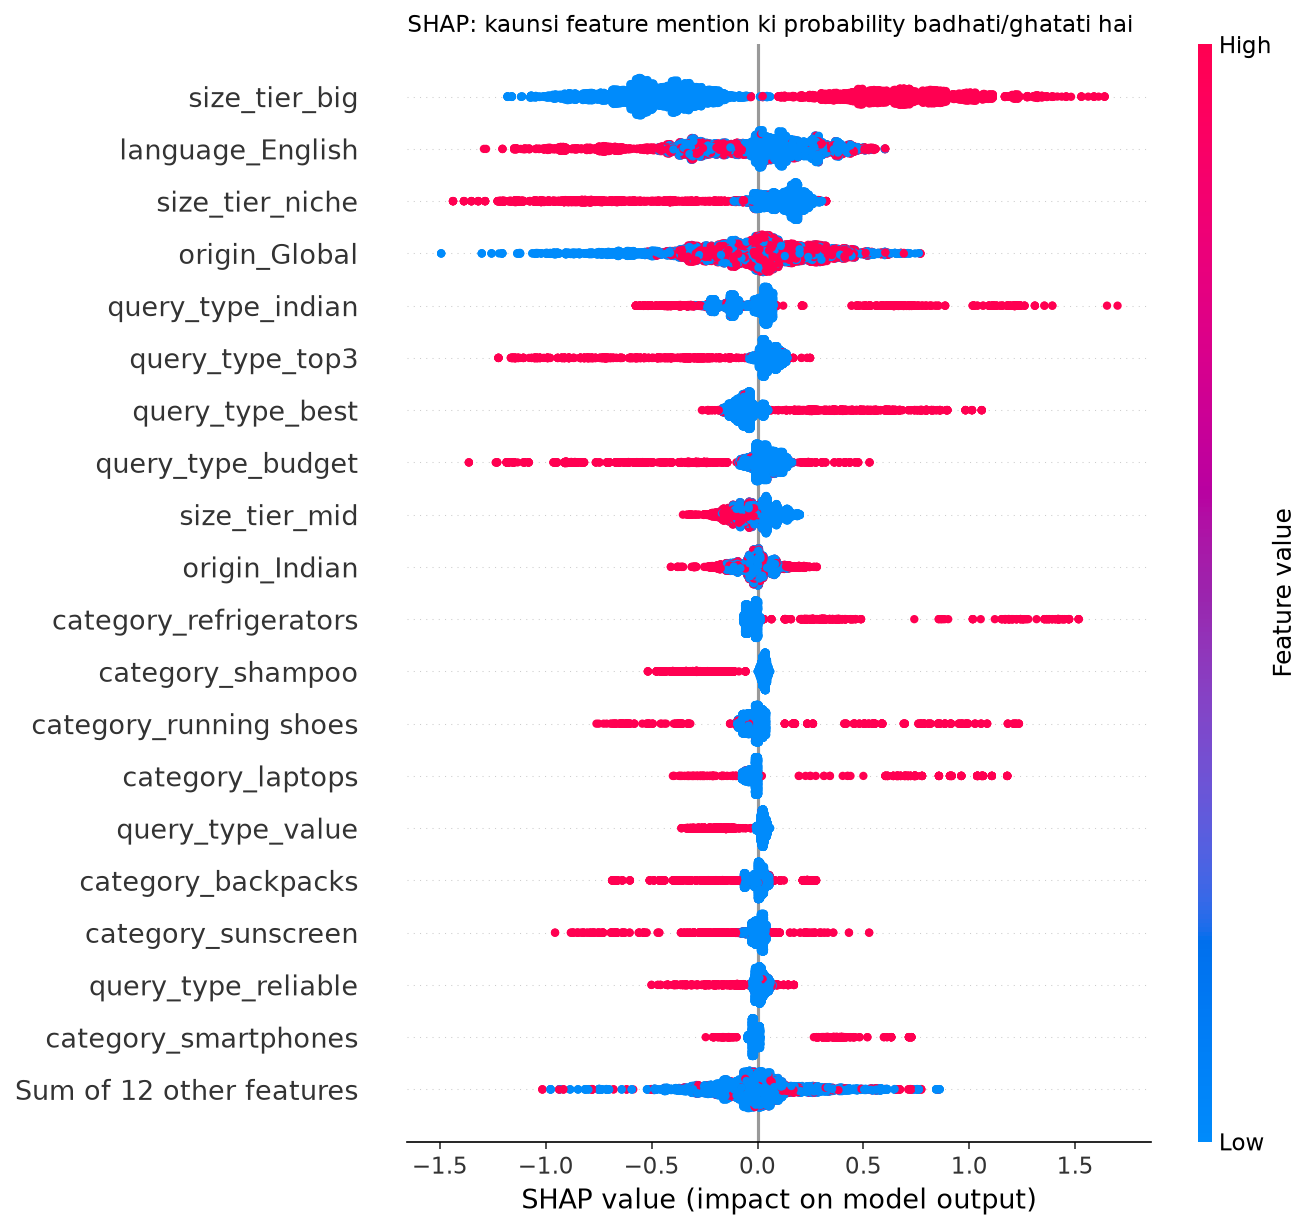
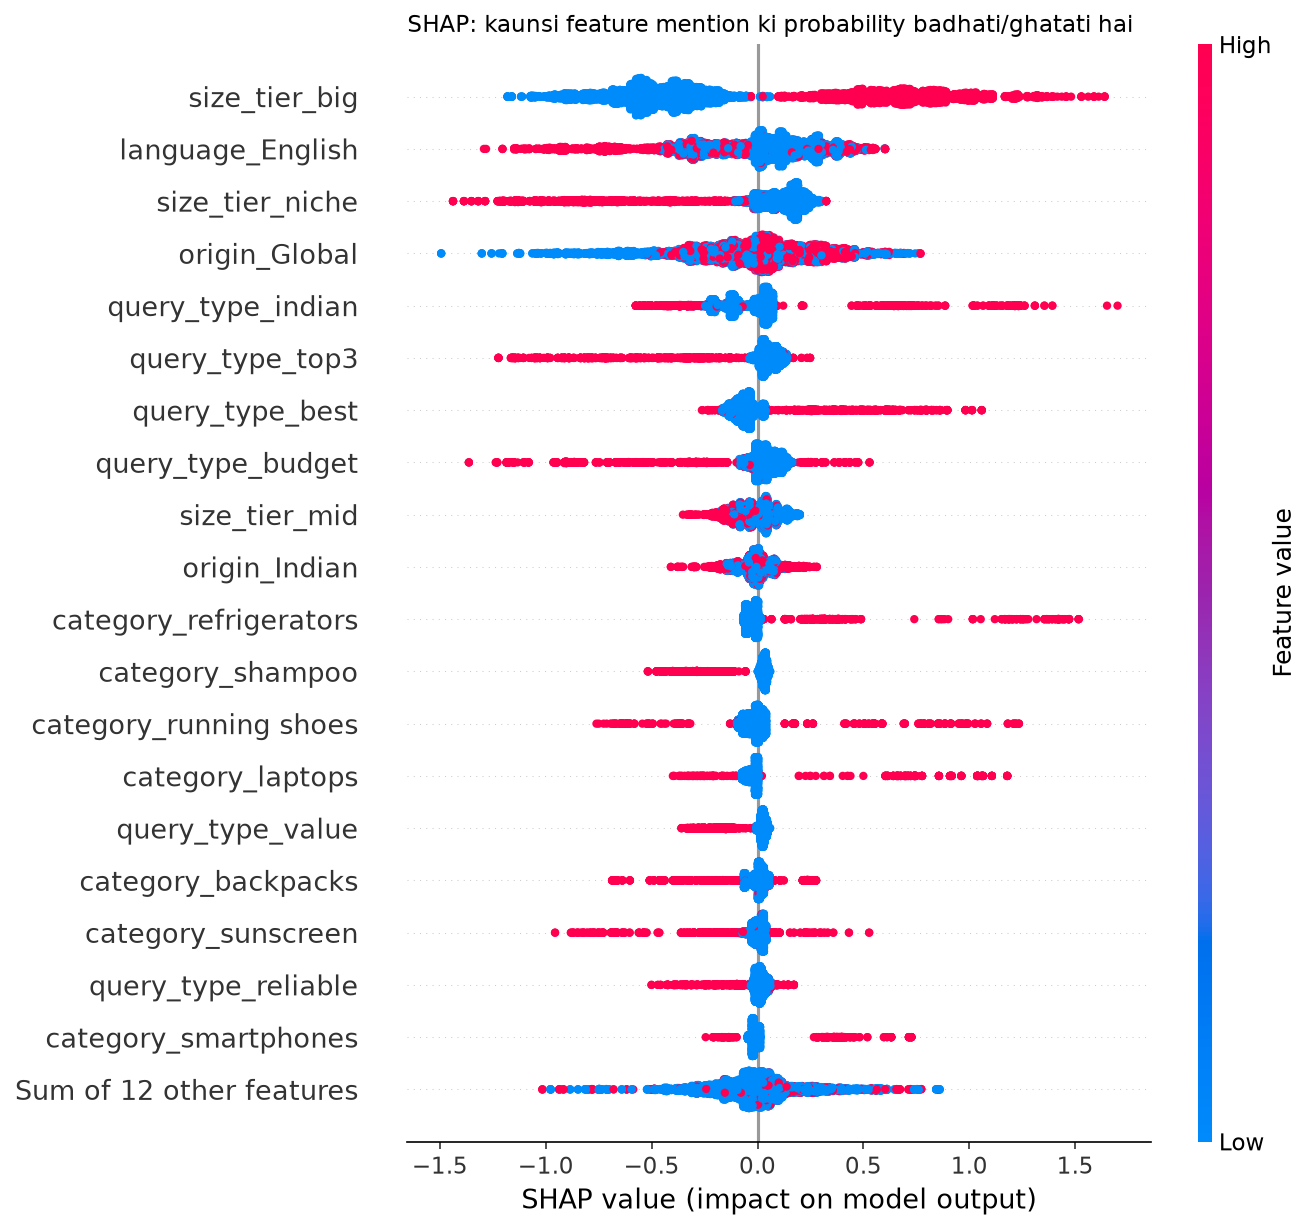
Add "Check my brand" tab to the app
- brand_check.py: runs the study's 24 questions for one category through
  claude-haiku-5-5 (4 threads), finds the brand by regex with aliases
  (plus known brands.csv aliases), its position among all brands in the
  answer, Haiku sentiment, and the other brands mentioned
- app.py: tabs "Profile score" and "Check my brand"; per-language X/8,
  avg position, sentiment, top 10 competitors, CSV download, all answers;
  max 3 checks per session, cost shown after each check; key from .env
  or st.secrets and never displayed
- Pin pandas 2.3.3 (Smart App Control blocked a pandas 3.1.0 DLL);
  all outputs identical
- Ignore .streamlit/secrets.toml; README section on the app

Tested on boAt (wireless earbuds): 24 answers read by hand, all 19
mentions and 5 non-mentions correct.

diff --git a/app.py b/app.py
@@ -1,11 +1,15 @@
 import os
 
 import altair as alt
+import anthropic
 import joblib
 import numpy as np
 import pandas as pd
 import shap
 import streamlit as st
+from dotenv import load_dotenv
+
+import brand_check
 
 MODEL_FILE = "model_original.pkl"
 BRANDS_FILE = "brands.csv"
@@ -23,6 +27,9 @@ DISCLAIMER = ("Pilot study. One model (Claude Haiku), 360 queries, no live web s
               "Predictions come from the brand's profile (category, origin, size) only, not from its name. "
               "Scores are measured within the tracked brand list. English answers mention more brands that are "
               "outside the list, so don't compare scores directly across languages.")
+MAX_CHECKS = 3  # har browser session mein "Check my brand" ki limit
+CHECK_DISCLAIMER = ("Results come from one model (Claude Haiku), without live web search. "
+                    "They are based on 8 queries per language, so treat them as indicative.")
 
 
 @st.cache_resource
@@ -90,16 +97,21 @@ def shap_chart(contributions):
     return (bars + zero).properties(height=220)
 
 
-def main():
-    st.set_page_config(page_title="BrandLens-India", page_icon="🔎", layout="wide")
-    st.title("BrandLens-India")
-    st.caption("Relative visibility of a brand profile in AI answers (English / Hindi / Hinglish)")
-    st.markdown("This app scores a **profile** (category, origin, size tier), not a brand name. "
-                "Two brands with the same profile always get the same score.")
+def get_api_key():
+    # .env ya .streamlit/secrets.toml se; key kabhi screen par ya log mein nahi jaani chahiye
+    load_dotenv()
+    key = os.getenv("ANTHROPIC_API_KEY")
+    if not key:
+        try:
+            key = st.secrets["ANTHROPIC_API_KEY"]
+        except Exception:
+            key = None
+    return key or None
 
-    model = load_model()
-    brands = load_brands()
-    levels = model_levels(model)
+
+def profile_tab(model, brands, levels):
+    st.markdown("This tab scores a **profile** (category, origin, size tier), not a brand name. "
+                "Two brands with the same profile always get the same score.")
 
     def clear_brand():
         st.session_state["brand"] = NO_BRAND
@@ -156,6 +168,108 @@ def main():
         st.warning(f"{REFERENCE_CHART} not found. Run `python train.py --subset original` first.")
 
     st.info(DISCLAIMER)
+
+
+def render_check(result):
+    results, info = result["results"], result["info"]
+    st.markdown(f"#### {info['brand']} · {info['category']}")
+    st.caption("Matched as: " + ", ".join(info["names"]))
+    if info["failed"]:
+        reasons = ", ".join(f"{name} ×{n}" for name, n in info["errors"].items())
+        st.warning(f"{info['failed']} of 24 questions failed after retries and are left out ({reasons}).")
+
+    summary = brand_check.language_summary(results)
+    for col, r in zip(st.columns(3), summary.to_dict("records")):
+        col.metric(f"{r['Language']}: answers mentioning it", r["Mentioned in"])
+    st.dataframe(summary, hide_index=True, width="stretch")
+    st.caption("Avg position = order of first appearance among all brands in the answer (1 = named first). "
+               "Sentiment is Claude Haiku's reading of how the answer talks about the brand.")
+
+    st.markdown("**Top 10 other brands in these answers**")
+    st.dataframe(brand_check.top_competitors(results), hide_index=True, width="stretch")
+
+    st.download_button("Download the answers (CSV)", brand_check.to_csv(results),
+                       file_name=f"brand_check_{info['brand']}_{info['category']}.csv".replace(" ", "_"),
+                       mime="text/csv")
+    with st.expander(f"Read all {len(results)} answers"):
+        for r in results.itertuples():
+            status = (f"mentioned, position {int(r.position)}, {r.sentiment or 'sentiment not rated'}"
+                      if r.mentioned else "not mentioned")
+            with st.container(border=True):
+                st.markdown(f"**{r.language} · {r.query_type}** ({status})")
+                st.caption(r.query_text)
+                st.markdown(r.answer)
+
+
+def check_tab(levels):
+    st.subheader("Check my brand")
+    st.caption("Asks Claude Haiku the study's 24 questions for one category right now "
+               "(8 query types × English, Hindi, Hinglish), then looks for your brand in the answers.")
+    api_key = get_api_key()
+    st.session_state.setdefault("checks_used", 0)
+    st.session_state.setdefault("session_cost", 0.0)
+
+    with st.form("check_form"):
+        brand = st.text_input("Brand name", placeholder="e.g. boAt")
+        aliases = st.text_input("Other names (optional, comma-separated)", placeholder="e.g. Airdopes, बोट")
+        category = st.selectbox("Category", levels["category"], key="check_category")
+        run = st.form_submit_button("Run check", type="primary",
+                                    disabled=not api_key or st.session_state["checks_used"] >= MAX_CHECKS)
+    if not api_key:
+        st.warning("No API key found. Add ANTHROPIC_API_KEY to .env or .streamlit/secrets.toml.")
+
+    if run:
+        if st.session_state["checks_used"] >= MAX_CHECKS:  # button band hone ke baad bhi double-check
+            st.error(f"This session has used all {MAX_CHECKS} checks.")
+        elif not brand.strip():
+            st.error("Enter a brand name.")
+        else:
+            st.session_state["checks_used"] += 1
+            progress = st.progress(0.0, text="Asking Claude Haiku…")
+            try:
+                results, info = brand_check.run_check(
+                    brand.strip(), aliases.split(","), category, api_key,
+                    on_progress=lambda done, total: progress.progress(done / total, text=f"{done}/{total} questions done"))
+            except anthropic.AuthenticationError:
+                st.error("The API key was rejected. Check ANTHROPIC_API_KEY.")
+            except Exception as e:  # sirf error ka type dikhao, message mein kuch sensitive na jaaye
+                st.error(f"The check failed ({type(e).__name__}). Try again in a minute.")
+            else:
+                st.session_state["session_cost"] += info["cost"]
+                if results.empty:
+                    reasons = ", ".join(f"{name} ×{n}" for name, n in info["errors"].items())
+                    st.error(f"All 24 questions failed ({reasons}). Try again in a minute.")
+                else:
+                    st.session_state["check_result"] = {"results": results, "info": info}
+            progress.empty()
+
+    left = MAX_CHECKS - st.session_state["checks_used"]
+    st.caption(f"{left} of {MAX_CHECKS} checks left in this session. Each check makes 48 API calls "
+               f"(24 answers + 24 brand extractions), about \\${brand_check.EXPECTED_COST:.2f}. If the brand is in "
+               "brands.csv for this category, its known names are matched too.")
+    if "check_result" in st.session_state:
+        info = st.session_state["check_result"]["info"]
+        # "\$" zaroori hai: markdown do $ ke beech ke text ko LaTeX maan leta hai
+        st.success(f"Cost of the last check: about \\${info['cost']:.3f} ({info['input_tokens']:,} input + "
+                   f"{info['output_tokens']:,} output tokens at claude-haiku-5-5 prices). "
+                   f"This session so far: \\${st.session_state['session_cost']:.3f}.")
+        render_check(st.session_state["check_result"])
+
+    st.info(CHECK_DISCLAIMER)
+
+
+def main():
+    st.set_page_config(page_title="BrandLens-India", page_icon="🔎", layout="wide")
+    st.title("BrandLens-India")
+    st.caption("Relative visibility of brands in AI answers (English / Hindi / Hinglish)")
+
+    model = load_model()
+    levels = model_levels(model)
+    profile, check = st.tabs(["Profile score", "Check my brand"])
+    with profile:
+        profile_tab(model, load_brands(), levels)
+    with check:
+        check_tab(levels)
 
 
 if __name__ == "__main__":

diff --git a/brand_check.py b/brand_check.py
@@ -1,0 +1,168 @@
+"""Check my brand: ek brand ke liye study ke 24 sawaal (8 query types x 3 languages) abhi Haiku se poochho aur analyse karo."""
+import re
+from collections import Counter
+from concurrent.futures import ThreadPoolExecutor, as_completed
+
+import anthropic
+import pandas as pd
+
+from collect import ask
+from extract import clean_name, compile_alias, first_match, normalize
+from sentiment import extract as extract_brands
+
+QUERIES_FILE = "queries.csv"
+BRANDS_FILE = "brands.csv"
+WORKERS = 4
+MAX_RETRIES = 3
+LANGUAGES = ["English", "Hindi", "Hinglish"]
+# claude-haiku-5-5, USD per million tokens (100K tokens tak ke prompts)
+PRICE_INPUT, PRICE_OUTPUT = 0.10, 0.50
+# study ke average se: har check = 24 answers + 24 extractions, ~38K input aur ~36K output tokens
+EXPECTED_COST = (38_000 * PRICE_INPUT + 36_000 * PRICE_OUTPUT) / 1e6
+
+
+def category_queries(category):
+    queries = pd.read_csv(QUERIES_FILE)
+    return queries[queries["category"] == category].sort_values("query_id")
+
+
+def known_aliases(brand, category):
+    # brand pehle se brands.csv mein hai to uske aliases (Devanagari wale bhi) saath mein match karo
+    brands = pd.read_csv(BRANDS_FILE)
+    hit = brands[(brands["category"] == category) & (brands["brand"].str.casefold() == brand.casefold())]
+    return hit["aliases"].iloc[0].split("|") if len(hit) else []
+
+
+def brand_matcher(brand, aliases):
+    names = list(dict.fromkeys(n.strip() for n in [brand, *aliases] if n.strip()))
+    return names, [compile_alias(n, brand) for n in names]
+
+
+def is_same_brand(name, names, patterns):
+    name = normalize(clean_name(name))
+    return name.casefold() in {n.casefold() for n in names} or any(p.search(name) for p in patterns)
+
+
+def first_index(name, text):
+    # study wale matching rules hi: case-sensitive ambiguous naam, "Noise cancellation" jaise exclusions
+    name = clean_name(name)
+    m = compile_alias(name, name).search(text)
+    return m.start() if m else None
+
+
+def brand_order(text, brand, start, others):
+    # answer mein pehli baar aane ka order, saare brands ke beech (list ke andar-bahar dono)
+    placed = [(s, n) for n in others if (s := first_index(n, text)) is not None]
+    if start is not None:
+        placed.append((start, brand))
+    return [n for _, n in sorted(placed)]
+
+
+def check_one(client, row, brand, names, patterns, tracked):
+    answer = ask(client, row.query_id, row.query_text)
+    found = extract_brands(client, row.query_id, row.query_text, row.category, tracked, answer["answer"])
+    text = normalize(answer["answer"])
+
+    start = first_match(patterns, text)
+    sentiment = next((b["sentiment"] for b in found["brands"] if is_same_brand(b["brand"], names, patterns)), None)
+    others = list(dict.fromkeys(clean_name(b["brand"]) for b in found["brands"]
+                                if not is_same_brand(b["brand"], names, patterns)))
+    order = brand_order(text, brand, start, others)
+    return {
+        "query_id": row.query_id,
+        "language": row.language,
+        "query_type": row.query_type,
+        "query_text": row.query_text,
+        "mentioned": start is not None,
+        "position": order.index(brand) + 1 if start is not None else None,
+        "sentiment": sentiment,
+        "brands_in_order": order,
+        "other_brands": others,
+        "answer": answer["answer"],
+        "input_tokens": answer["input_tokens"] + found["input_tokens"],
+        "output_tokens": answer["output_tokens"] + found["output_tokens"],
+    }
+
+
+def run_check(brand, aliases, category, api_key, on_progress=None):
+    if not api_key:
+        raise ValueError("ANTHROPIC_API_KEY nahi mila")
+    queries = category_queries(category)
+    names, patterns = brand_matcher(brand, [*aliases, *known_aliases(brand, category)])
+    extra = [n for n in names if n != brand]
+    tracked = f"{brand} ({', '.join(extra)})" if extra else brand
+    client = anthropic.Anthropic(api_key=api_key, max_retries=MAX_RETRIES)
+
+    rows, errors = [], Counter()
+    with ThreadPoolExecutor(max_workers=WORKERS) as pool:
+        futures = [pool.submit(check_one, client, row, brand, names, patterns, tracked)
+                   for row in queries.itertuples()]
+        for done, future in enumerate(as_completed(futures), start=1):
+            try:
+                rows.append(future.result())
+            except anthropic.AuthenticationError:
+                pool.shutdown(cancel_futures=True)
+                raise
+            except Exception as e:  # retries ke baad bhi fail - sirf error ki type gino, aage badho
+                errors[type(e).__name__] += 1
+            if on_progress:
+                on_progress(done, len(futures))
+
+    results = pd.DataFrame(rows)
+    if not results.empty:  # language, phir study wala query order
+        results = results.sort_values(["language", "query_id"],
+                                      key=lambda s: s.map(LANGUAGES.index) if s.name == "language" else s)
+    tokens_in = int(results["input_tokens"].sum()) if not results.empty else 0
+    tokens_out = int(results["output_tokens"].sum()) if not results.empty else 0
+    return results, {
+        "brand": brand, "category": category, "names": names,
+        "failed": sum(errors.values()), "errors": dict(errors),
+        "input_tokens": tokens_in, "output_tokens": tokens_out,
+        "cost": (tokens_in * PRICE_INPUT + tokens_out * PRICE_OUTPUT) / 1e6,
+    }
+
+
+def language_summary(results):
+    rows = []
+    for lang in LANGUAGES:
+        d = results[results["language"] == lang]
+        m = d[d["mentioned"]]
+        sentiments = Counter(m["sentiment"].fillna("not rated"))
+        rows.append({
+            "Language": lang,
+            "Mentioned in": f"{len(m)}/{len(d)}",
+            "Avg position": round(m["position"].mean(), 1) if len(m) else None,
+            "Positive": sentiments["positive"],
+            "Neutral": sentiments["neutral"],
+            "Negative": sentiments["negative"],
+        })
+    return pd.DataFrame(rows)
+
+
+def top_competitors(results, n=10):
+    # "realme" aur "Realme" ek hi gine jaate hain; har answer mein ek brand ek hi baar
+    seen, names, positions = {}, {}, {}
+    for r in results.itertuples():
+        for name in r.other_brands:
+            key = name.casefold()
+            names.setdefault(key, Counter())[name] += 1
+            seen.setdefault(key, Counter())[r.language] += 1
+            if name in r.brands_in_order:
+                positions.setdefault(key, []).append(r.brands_in_order.index(name) + 1)
+    rows = [{
+        "Brand": names[k].most_common(1)[0][0],
+        f"Answers (of {len(results)})": sum(c.values()),
+        **{lang: c[lang] for lang in LANGUAGES},
+        "Avg position": round(sum(positions[k]) / len(positions[k]), 1) if positions.get(k) else None,
+    } for k, c in seen.items()]
+    table = pd.DataFrame(rows)
+    if table.empty:
+        return table
+    return table.sort_values([f"Answers (of {len(results)})", "Brand"], ascending=[False, True]).head(n)
+
+
+def to_csv(results):
+    out = results.drop(columns=["input_tokens", "output_tokens"]).copy()
+    for col in ["brands_in_order", "other_brands"]:
+        out[col] = out[col].map("|".join)
+    return out.to_csv(index=False).encode("utf-8-sig")  # BOM taaki Excel Hindi sahi dikhaye

diff --git a/README.md b/README.md
@@ -40,7 +40,7 @@ The tracked list decides what counts as a mention, and it isn't neutral:
 | 4. Models: majority / logistic / XGBoost, SHAP, charts | `train.py [--subset all\|original]` | `model.pkl` + `figures/`, or `model_original.pkl` + `figures/original/` |
 | 5. List coverage, Global − Indian gap (bootstrap CI) | `analysis.py` | console tables |
 | 6. Indian-origin share of all brands (bootstrap CI) | `origin_share.py` | `origin_share.csv`, `unlisted_origins.csv` |
-| 7. Demo app | `streamlit run app.py` | http://localhost:8501 |
+| 7. Demo app: "Profile score" and "Check my brand" tabs | `streamlit run app.py` | http://localhost:8501 |
 
 Setup:
 
@@ -49,7 +49,14 @@ python -m venv venv
 venv\Scripts\python -m pip install -r requirements.txt
 ```
 
-Put your key in `.env` as `ANTHROPIC_API_KEY=...`. The file is git-ignored.
+Put your key in `.env` as `ANTHROPIC_API_KEY=...`, or in `.streamlit/secrets.toml` for the app. Both are git-ignored.
+
+pandas is pinned to 2.3.3 because Windows Smart App Control blocked a pandas 3.1.0 DLL on the development machine. All outputs are identical under both versions.
+
+## The app
+
+- **Profile score** runs `model_original.pkl` on a profile (category, origin, size tier) and shows a relative visibility score per language, a query-type chart, and a SHAP breakdown. It never sees brand names.
+- **Check my brand** (`brand_check.py`) asks `claude-haiku-5-5` the study's 24 questions for one category right now: 8 query types × 3 languages, the same settings as `collect.py`. It then finds the brand in each answer, using regex with the given aliases plus any known ones from `brands.csv`, and records its position among all brands in the answer. Haiku's sentiment extraction is reused for the sentiment and the other brands. Each check makes 48 API calls, about $0.02. A session is limited to 3 checks, and the key is never shown or logged. The results are indicative: one model, no web search, 8 queries per language. Tested on boAt (wireless earbuds): all 24 answers were read by hand, and all 19 mentions and 5 non-mentions were correct.
 
 The API scripts (`collect.py`, `sentiment.py`, `origin_share.py`) skip work that is already saved, run 4 threads where that helps, retry rate limits and server errors 3 times, and log failures to `errors.log` / `sentiment_errors.log`. Everything after step 2 runs offline.
 
